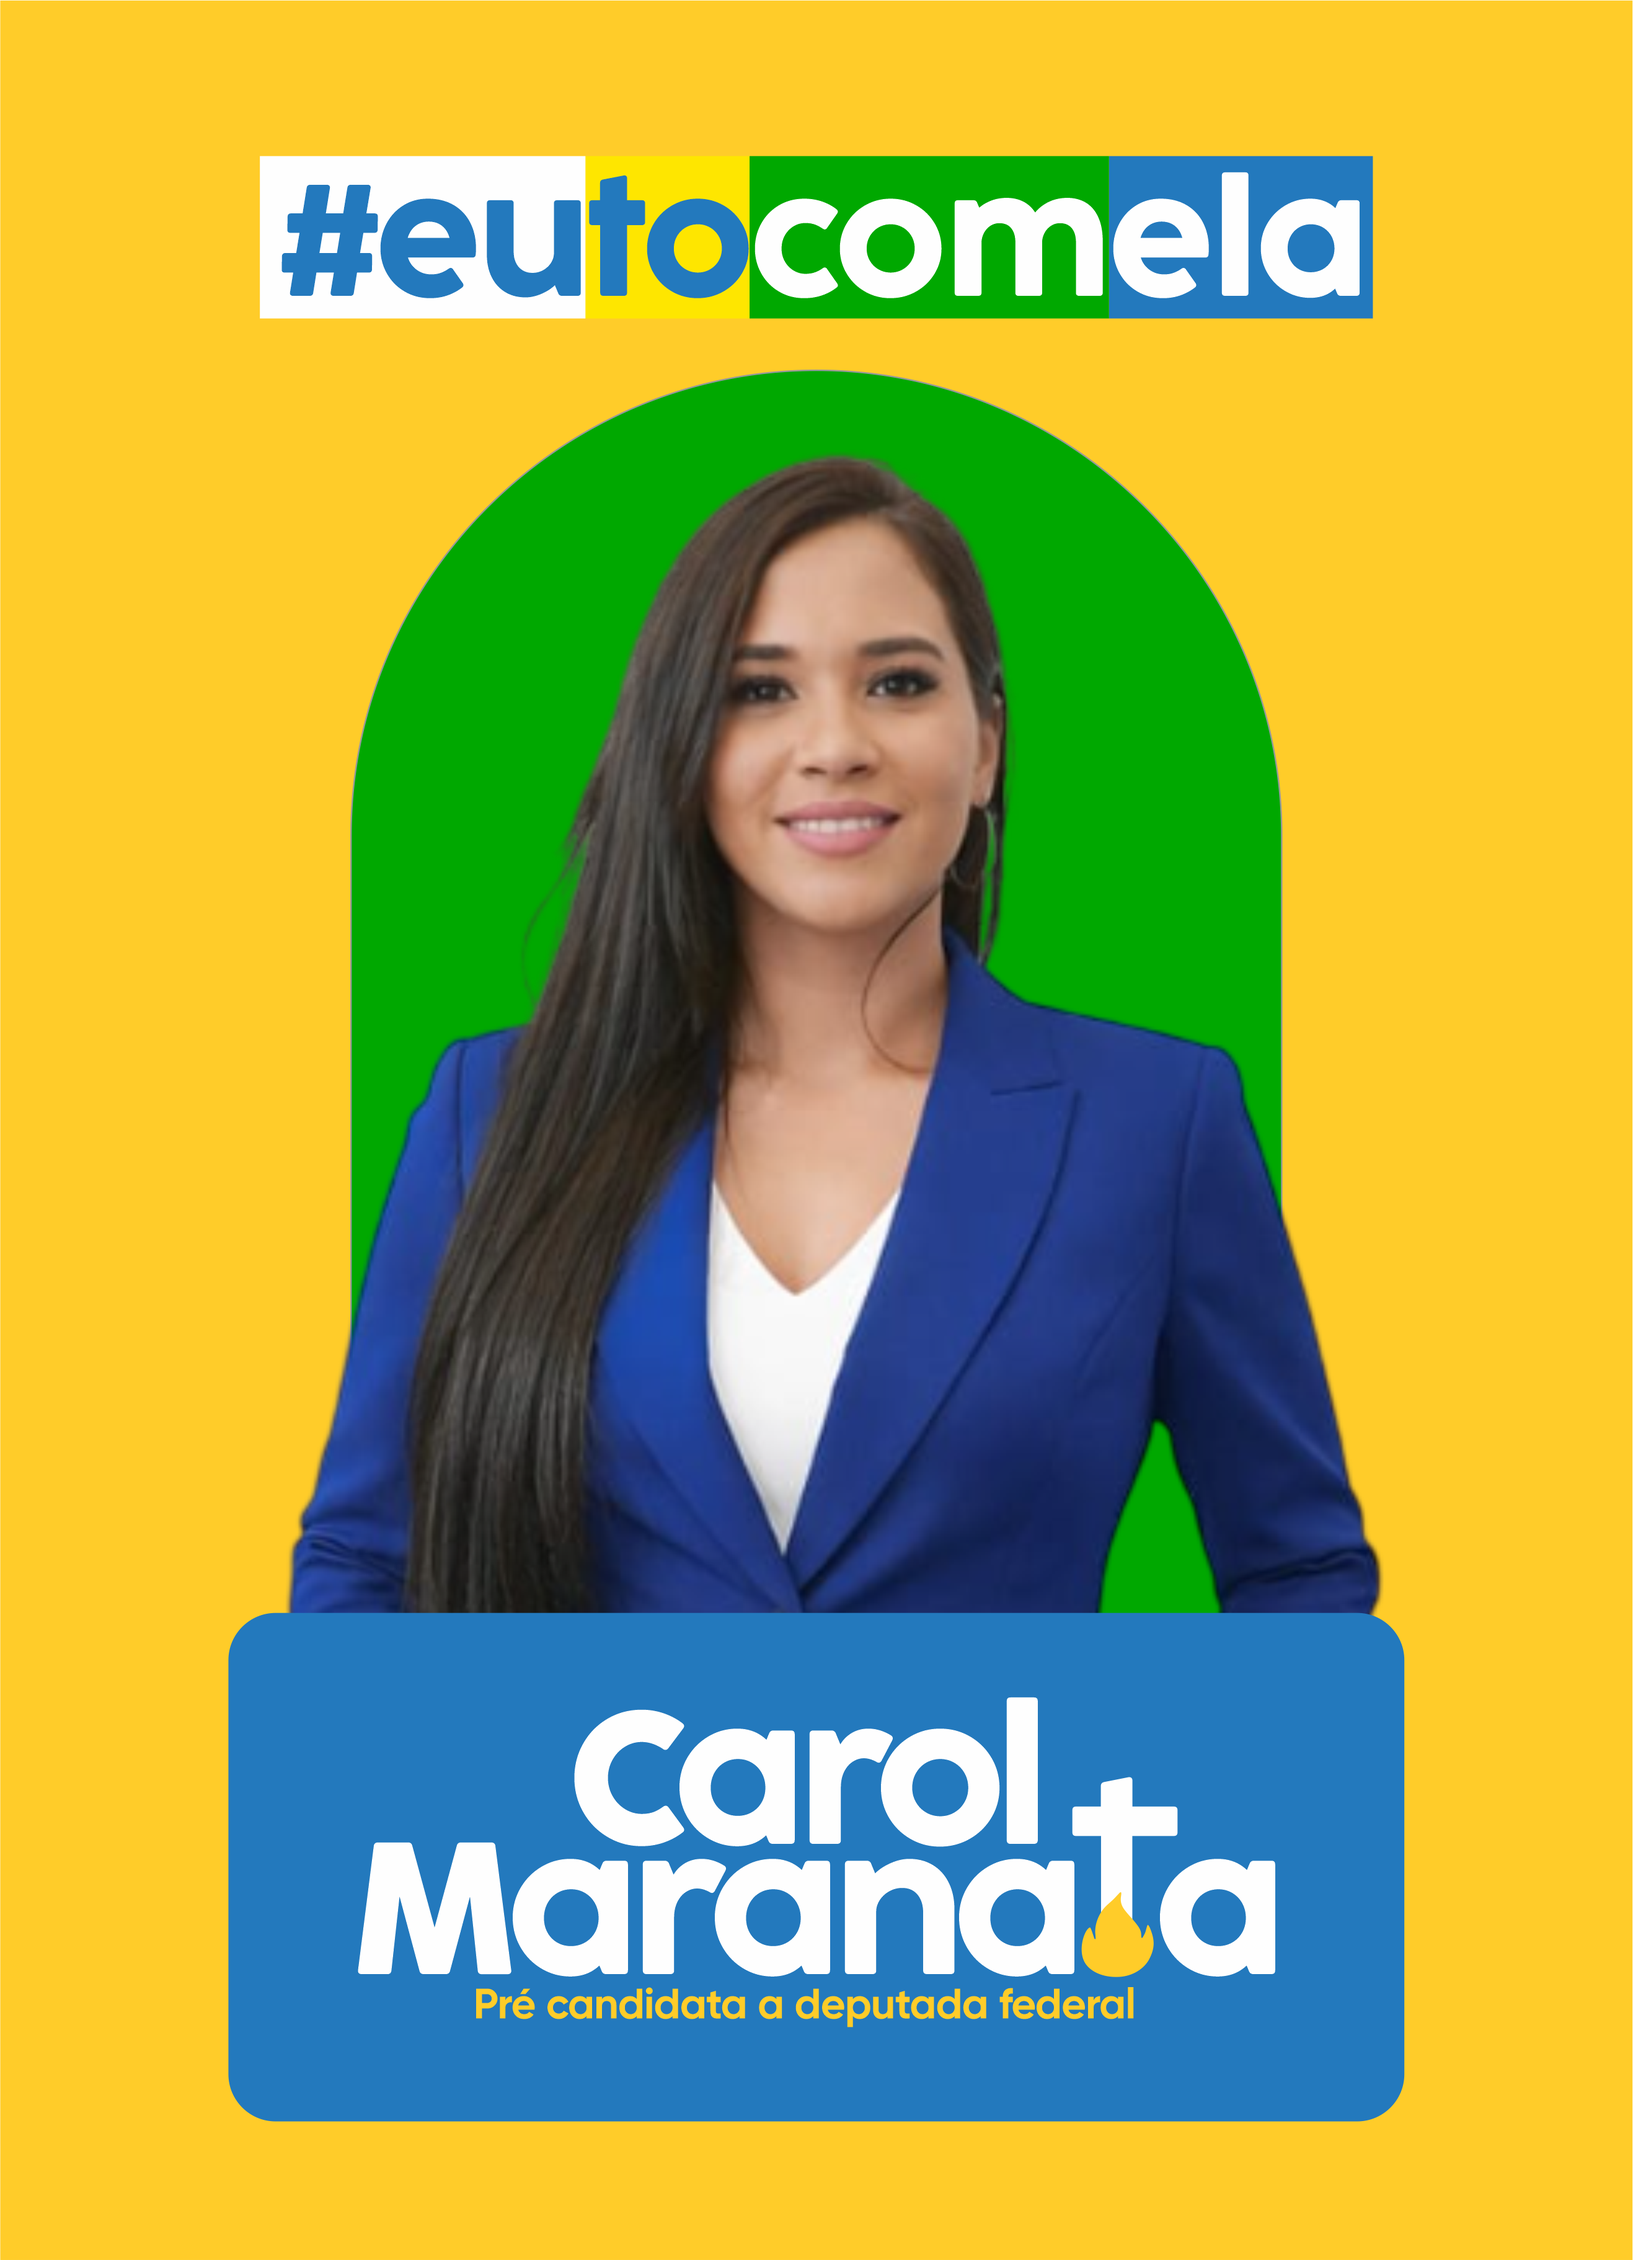
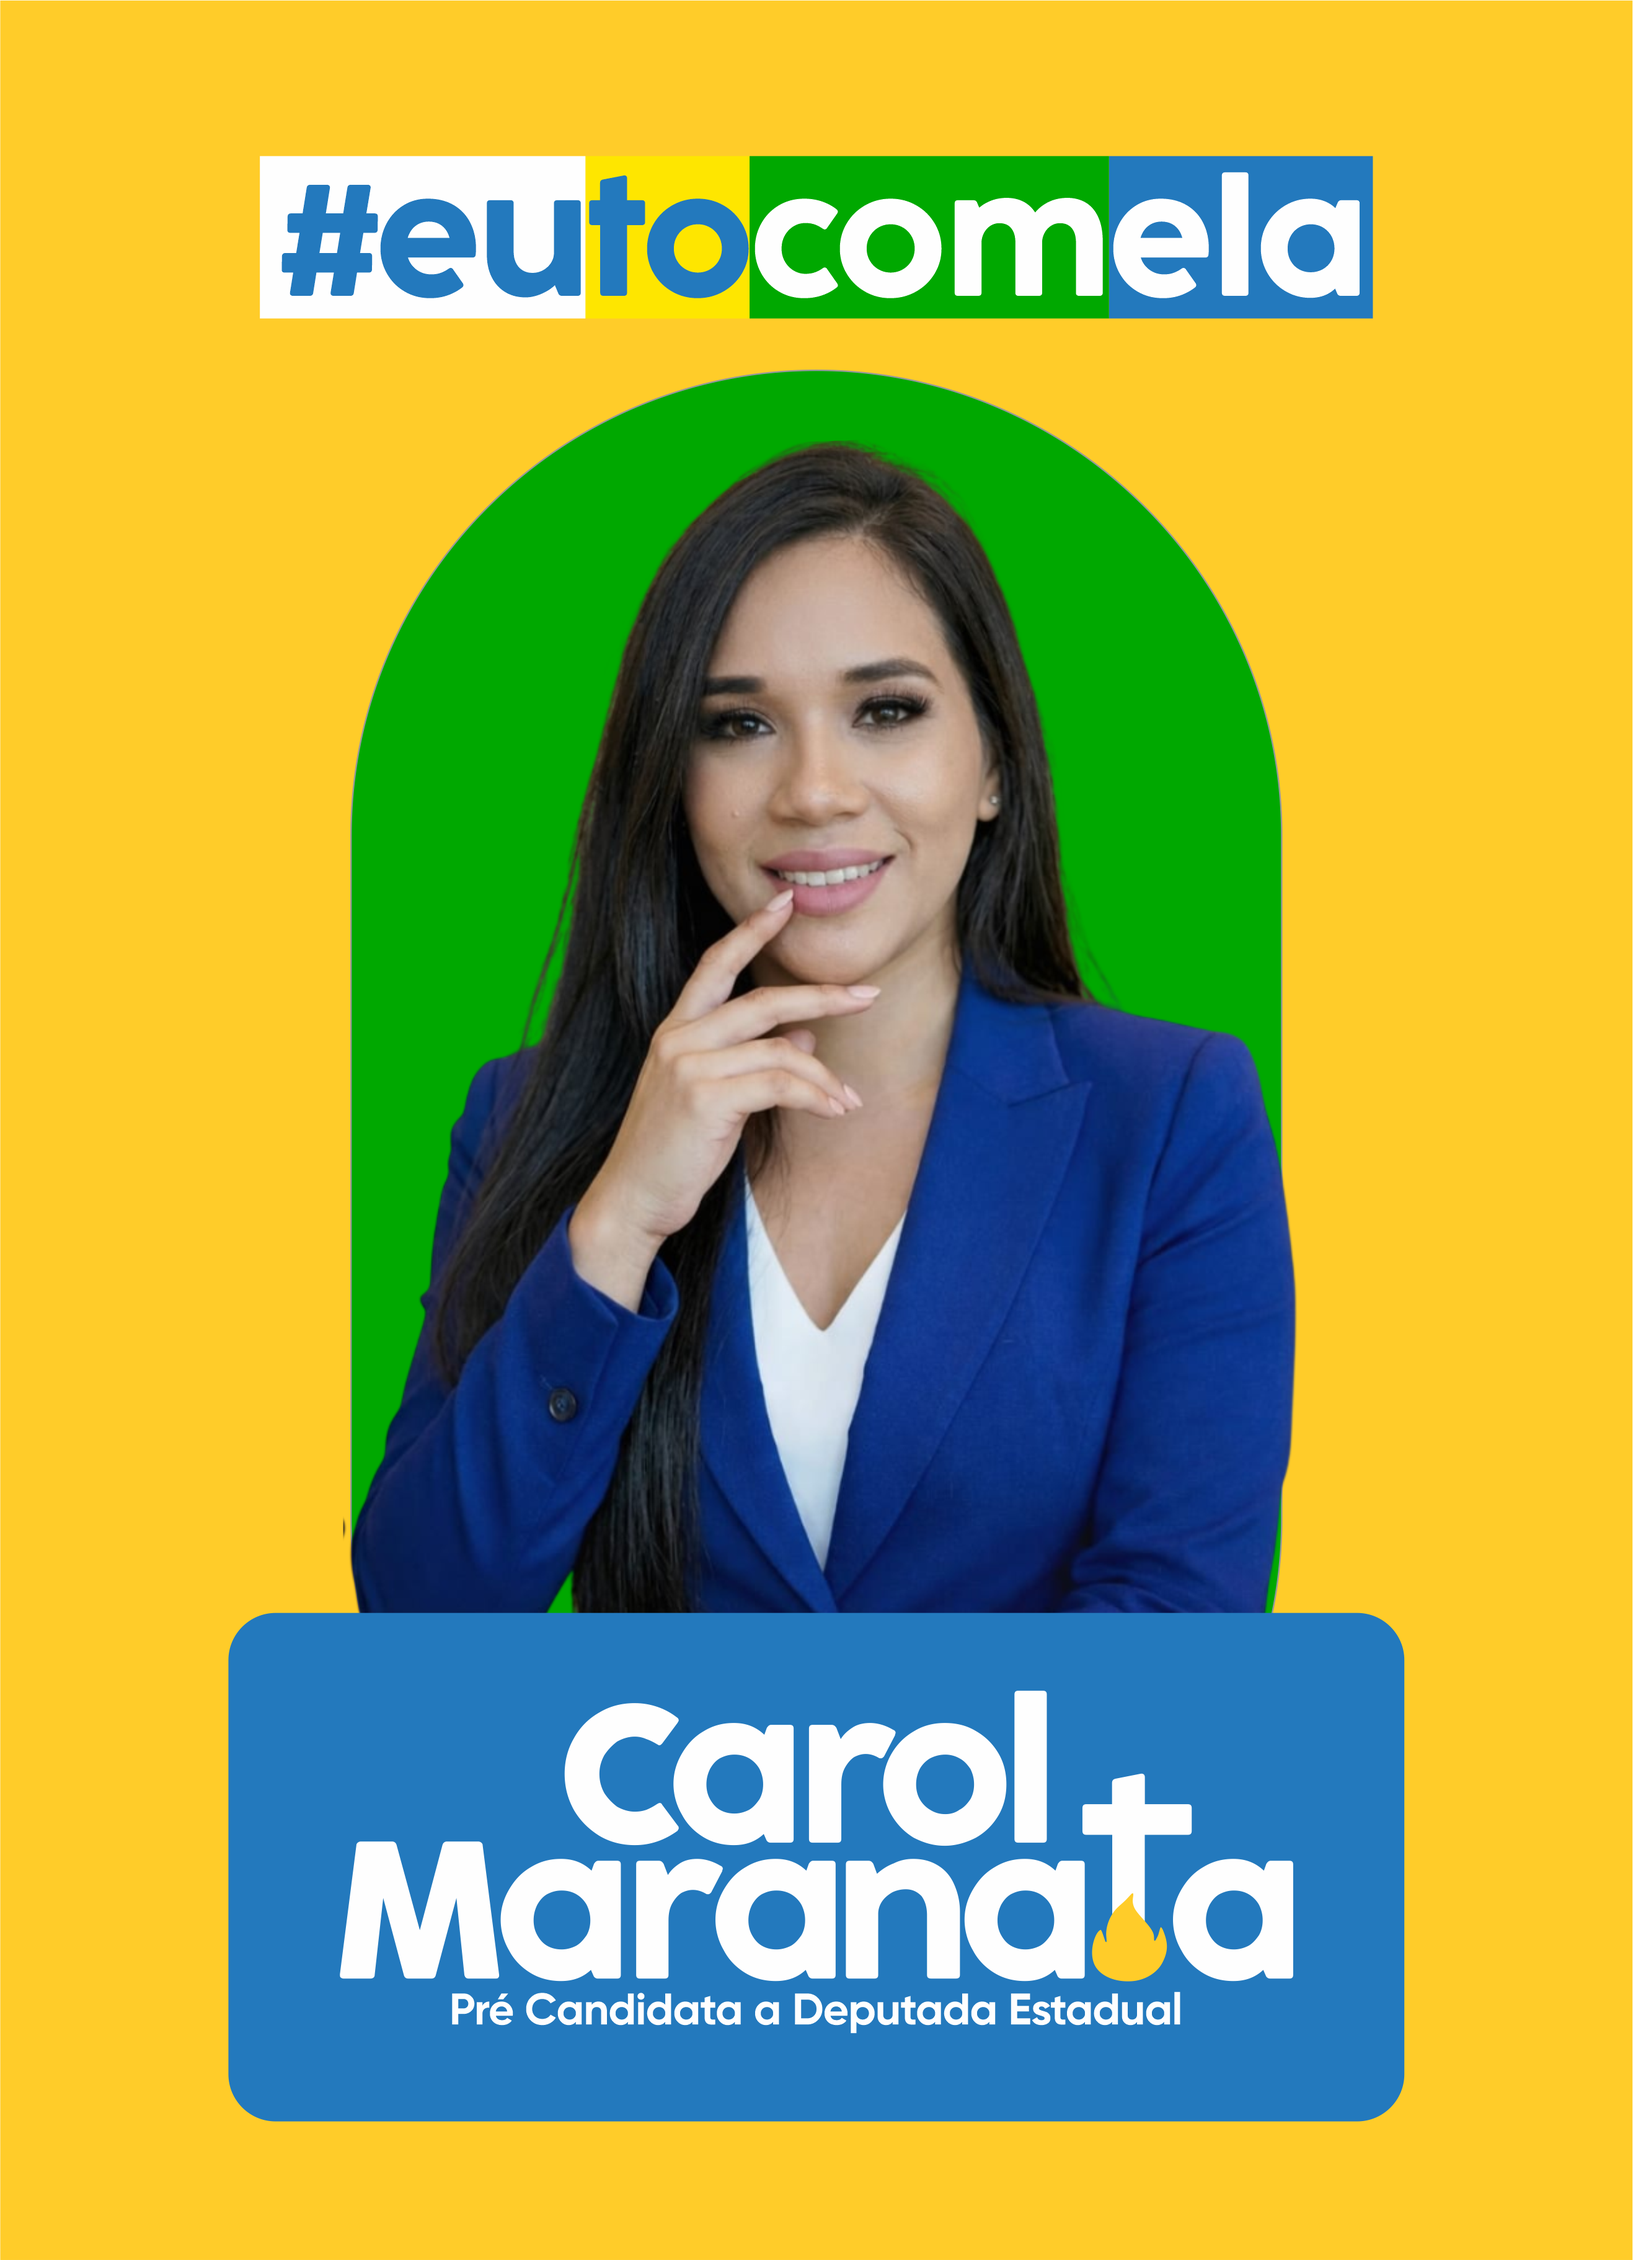
Add files via upload

Changed region(s): [[0.1557, 0.1861, 0.8717, 0.7132], [0.1868, 0.7442, 0.8094, 0.8993]]

diff --git a/index.HTML b/index.HTML
@@ -3,7 +3,7 @@
 <head>
     <meta charset="UTF-8">
     <meta name="viewport" content="width=device-width, initial-scale=1.0, user-scalable=yes">
-    <title>Carol Maranata - Deputada Federal | Maranhão 2026</title>
+    <title>Carol Maranata - Deputada Estadual | Maranhão 2026</title>
     <style>
         * {
             margin: 0;
@@ -186,7 +186,7 @@
             .cursor-halo { width: 120px; height: 120px; }
         }
 
-        /* SEÇÃO BIOGRAFIA - sem quadrado azul, textos justificados */
+        /* SEÇÃO BIOGRAFIA - NOVO CONTEÚDO (empreendedora, produtora, Arrocha Brasil) */
         .bio-section {
             padding: 80px 24px;
             max-width: 1280px;
@@ -568,17 +568,18 @@
         <div class="cursor-halo" id="cursorHalo"></div>
     </div>
 
-    <!-- SEÇÃO QUEM É CAROL MARANATA - sem quadrado azul, textos justificados -->
+    <!-- SEÇÃO BIOGRAFIA ATUALIZADA: Carol Maranata, empreendedora, produtora de eventos, Arrocha Brasil -->
     <section class="bio-section" id="bioSection">
         <div class="bio-container">
             <div class="bio-image"></div>
             <div class="bio-content">
                 <span class="tag">Conheça Carol</span>
                 <h2>Carol Maranata</h2>
-                <p>Carol Maranata é uma mulher do povo, nascida e criada no interior do Maranhão. Pela primeira vez candidata a Deputada Federal, sua trajetória é marcada pelo trabalho voluntário em comunidades, pelo apoio a pequenos negócios e pela escuta ativa das necessidades da população maranhense.</p>
-                <p>Sem nunca ter ocupado cargos públicos, Carol representa a força da sociedade civil organizada. Acredita que a política deve ser feita com transparência, empatia e compromisso real com quem mais precisa. Sua candidatura nasce do desejo de levar para o Congresso Nacional a voz de quem sempre foi esquecido.</p>
+                <p>Carol Maranata, também conhecida como Karol Carolina, é uma empreendedora e produtora de eventos do setor artístico. Natural da Bahia, sempre teve ligação com a música e o entretenimento desde jovem.</p>
+                <p>Atua como cantora e empresária, organizando grandes eventos e shows. É a criadora do projeto Arrocha Brasil, que idealizou em 2021 e transformou em realidade em 2023, reunindo milhares de pessoas.</p>
+                <p>Reconhecida pela sua energia, carisma e capacidade de execução, Carol se destaca por levar cultura, entretenimento e ações sociais para diferentes cidades.</p>
                 <div class="bio-highlight">
-                    <p>"Não sou política profissional, sou uma maranhense que cansou de esperar. Chegou a hora de gente nova, com coragem e honestidade, fazer a diferença em Brasília." — Carol Maranata</p>
+                    <p>"Arrocha Brasil é mais que um evento: é um movimento que nasceu do coração da Bahia e hoje espalha alegria, inclusão e oportunidades. A música e a cultura nos conectam e transformam vidas." — Carol Maranata</p>
                 </div>
             </div>
         </div>
@@ -591,7 +592,7 @@
         <div class="gallery-grid" id="galleryContainer"></div>
     </section>
 
-    <!-- ÚLTIMAS NOTÍCIAS -->
+    <!-- ÚLTIMAS NOTÍCIAS - CONTEÚDO ORIGINAL RESTAURADO -->
     <section class="section" id="noticias">
         <h2 class="section-title">Últimas Notícias</h2>
         <p class="section-sub">Acompanhe a campanha de Carol Maranata</p>
@@ -604,10 +605,10 @@
         <img class="lightbox-img" id="lightboxImg" src="" alt="">
     </div>
 
-    <!-- FOOTER ESCURO COM CRÉDITO PULSANTE -->
+    <!-- FOOTER ESCURO COM CRÉDITO PULSANTE - CORRIGIDO PARA DEPUTADA ESTADUAL -->
     <footer class="footer">
         <div class="footer-content">
-            <p>Carol Maranata 2026 - Deputada Federal | 💙 Primeira vez, mas com muita determinação</p>
+            <p>Carol Maranata 2026 - Deputada Estadual | 💙 Cultura, empreendedorismo e transformação social</p>
             <p style="margin-top: 8px;">Comitê Carol Maranata • @carolmaranata_oficial</p>
             <div class="credit">
                 Criado por 
@@ -630,23 +631,23 @@
 
     <script>
         (function() {
-            // Galeria de fotos
+            // Galeria de fotos mantida com temática cultural/eventos
             const galleryImages = [
-                { src: "https://images.pexels.com/photos/7095503/pexels-photo-7095503.jpeg?auto=compress&cs=tinysrgb&w=800", caption: "Carol em encontro com lideranças comunitárias" },
-                { src: "https://images.pexels.com/photos/7697263/pexels-photo-7697263.jpeg?auto=compress&cs=tinysrgb&w=800", caption: "Diálogo aberto nas ruas de São Luís" },
-                { src: "https://images.pexels.com/photos/3874210/pexels-photo-3874210.jpeg?auto=compress&cs=tinysrgb&w=800", caption: "Carol ao lado de jovens maranhenses" },
-                { src: "https://images.pexels.com/photos/7567434/pexels-photo-7567434.jpeg?auto=compress&cs=tinysrgb&w=800", caption: "Caravana da Esperança no interior" },
-                { src: "https://images.pexels.com/photos/5669602/pexels-photo-5669602.jpeg?auto=compress&cs=tinysrgb&w=800", caption: "Encontro com mulheres empreendedoras" },
-                { src: "https://images.pexels.com/photos/6256126/pexels-photo-6256126.jpeg?auto=compress&cs=tinysrgb&w=800", caption: "Mobilização em Imperatriz" }
+                { src: "https://images.pexels.com/photos/7095503/pexels-photo-7095503.jpeg?auto=compress&cs=tinysrgb&w=800", caption: "Carol Maranata em lançamento do Arrocha Brasil" },
+                { src: "https://images.pexels.com/photos/7697263/pexels-photo-7697263.jpeg?auto=compress&cs=tinysrgb&w=800", caption: "Produção de evento cultural na Bahia" },
+                { src: "https://images.pexels.com/photos/3874210/pexels-photo-3874210.jpeg?auto=compress&cs=tinysrgb&w=800", caption: "Carol recebendo artistas no projeto Arrocha Brasil" },
+                { src: "https://images.pexels.com/photos/7567434/pexels-photo-7567434.jpeg?auto=compress&cs=tinysrgb&w=800", caption: "Ações sociais e cultura nas comunidades" },
+                { src: "https://images.pexels.com/photos/5669602/pexels-photo-5669602.jpeg?auto=compress&cs=tinysrgb&w=800", caption: "Palco principal Arrocha Brasil 2023" },
+                { src: "https://images.pexels.com/photos/6256126/pexels-photo-6256126.jpeg?auto=compress&cs=tinysrgb&w=800", caption: "Carol ao lado de empreendedores do setor musical" }
             ];
 
-            // NOTÍCIAS FOCADAS NA CAMPANHA DE PRIMEIRA VEZ
+            // NOTÍCIAS RESTAURADAS: versão original da campanha (primeira vez deputada estadual)
             const newsData = [
                 {
                     img: "06.png",
                     date: "20 de Março, 2026",
                     title: "Carol Maranata oficializa candidatura: 'Uma nova esperança para o Maranhão'",
-                    excerpt: "Pela primeira vez na disputa por uma vaga na Câmara Federal, Carol Maranata registrou sua candidatura com o apoio de mais de 50 movimentos sociais. 'Estou aqui para representar quem nunca teve voz', declarou."
+                    excerpt: "Pela primeira vez na disputa por uma vaga na Assembleia Legislativa, Carol Maranata registrou sua candidatura com o apoio de mais de 50 movimentos sociais. 'Estou aqui para representar quem nunca teve voz', declarou."
                 },
                 {
                     img: "https://images.pexels.com/photos/6457565/pexels-photo-6457565.jpeg?auto=compress&cs=tinysrgb&w=800",
@@ -658,7 +659,7 @@
                     img: "https://portalcorreio.com.br/portalcorreio/wp-content/uploads/2019/08/emprego.jpg",
                     date: "5 de Março, 2026",
                     title: "Carol lança plataforma 'Maranhão de Primeira' com propostas inovadoras",
-                    excerpt: "A candidata, que disputa seu primeiro mandato, apresentou eixos prioritários: geração de emprego, educação de qualidade e saúde preventiva. 'Vamos fazer diferente, sem velhos vícios', destacou."
+                    excerpt: "A candidata, que disputa seu primeiro mandato estadual, apresentou eixos prioritários: geração de emprego, educação de qualidade e saúde preventiva. 'Vamos fazer diferente, sem velhos vícios', destacou."
                 }
             ];
 
@@ -718,7 +719,7 @@
                     const readLink = article.querySelector('.read-more');
                     readLink.addEventListener('click', (e) => {
                         e.preventDefault();
-                        alert(`💙 ${item.title}\nAcesse nosso site oficial para mais informações sobre a campanha de Carol Maranata.`);
+                        alert(`💙 ${item.title}\nAcesse nosso site oficial para mais informações sobre a campanha de Carol Maranata para Deputada Estadual.`);
                     });
                     newsContainer.appendChild(article);
                 });
